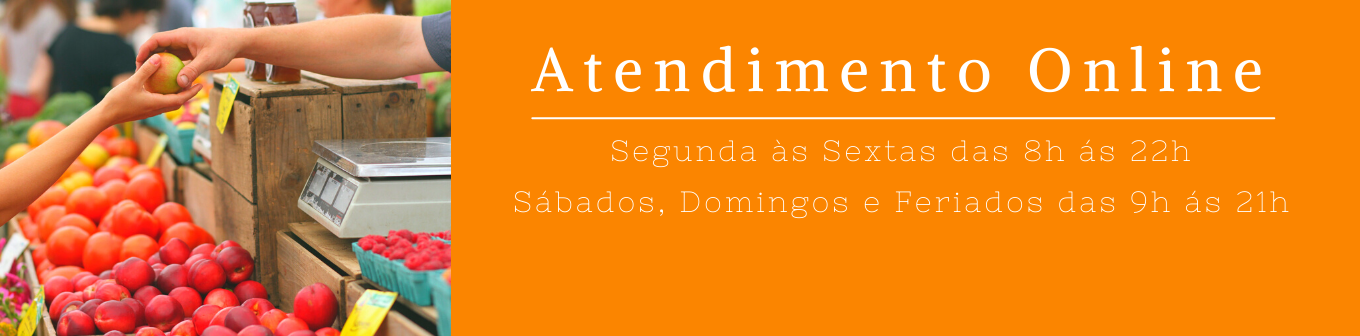
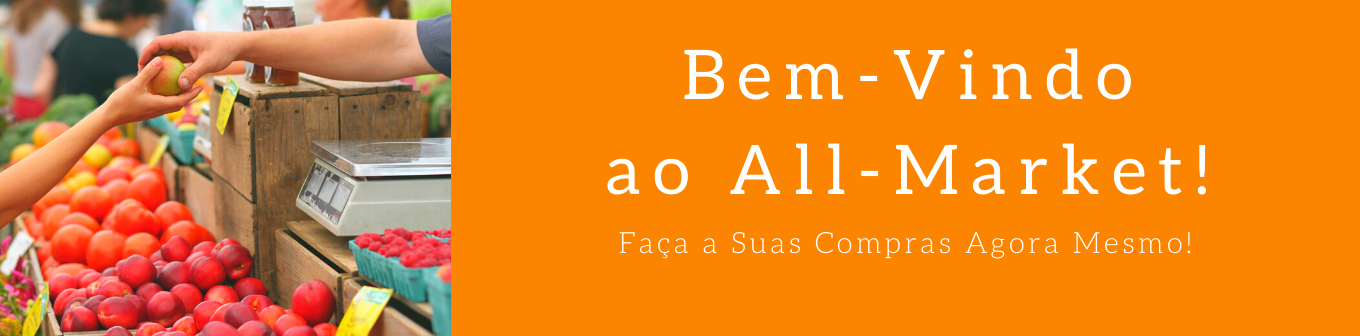
Bom dia

diff --git a/react/tcc/src/pages/inicial/index.js b/react/tcc/src/pages/inicial/index.js
@@ -45,8 +45,8 @@ export default function Index() {
         loading.current.complete();
     }
 
-    let lista1 = produtos.filter(p => p.id_categoria === 6 || p.id_categoria === 4 || p.id_categoria === 2);
-    let lista2 = produtos.filter(p => p.id_categoria === 5 || p.id_categoria === 3 || p.id_categoria === 1);
+    let lista1 = produtos.filter(p => p.id_categoria === 18 || p.id_categoria === 16 || p.id_categoria === 14);
+    let lista2 = produtos.filter(p => p.id_categoria === 17 || p.id_categoria === 15 || p.id_categoria === 13);
 
     return (
         <Container>
@@ -140,11 +140,6 @@ export default function Index() {
                             <div className="limpeza">Limpeza</div>
                             <div className="higiene">Higiene</div>
                         </div>   
-                    </div>
-                    <div className="atendimento">
-                        <div className="titulo-atendimento">Atendimento Online</div>
-                        <div className="horario-normal">Segundas às Sextas das 8h ás 22h</div>
-                        <div className="horario-feriado">Sábados, Domingos e Feriados das 9h ás 20h</div>
                     </div>
                     <div className="redes">
                         <div className="titulo-redes">Nos Siga nas Redes Sociais!</div>

diff --git a/react/tcc/src/pages/usuario/carrinho/index.js b/react/tcc/src/pages/usuario/carrinho/index.js
@@ -126,7 +126,7 @@ export default function Carrinho() {
                 </div>
                 <div class="box-direita">
                     <div class="box-endereco">
-                        <div class="titulo-endereco"> Confira o endereco para entrega </div>
+                        <div class="titulo-endereco"> Confira o Endereço para Entrega: </div>
                         <div class="nome-rua"> <span>Logradouro:</span> {endereco.nm_rua}, {endereco.ds_numero} </div>
 
                         <div class="nome-bairro"> <span>Bairro:</span> Jardim das Flores </div>
@@ -144,8 +144,8 @@ export default function Carrinho() {
                             <button /*onClick={formaPagamento('Pix')}*/ > Pix </button>
                         </div>
                     </div>
-                    <div class="box-total"> O total da sua compra foi de: <b> R$ {valorTotal} </b> </div>
-                    <div class="botao-finalizar"> <button onClick={finalizarCompra}> Finalizar compra </button> </div>
+                    <div class="box-total"> O Total da Sua Compra Foi de: <b> R$ {valorTotal} </b> </div>
+                    <div class="botao-finalizar"> <button onClick={finalizarCompra}> Finalizar Compra </button> </div>
 
                 </div>
             </div>

diff --git a/react/tcc/src/pages/inicial/categoria-carnes/index.js b/react/tcc/src/pages/inicial/categoria-carnes/index.js
@@ -44,8 +44,8 @@ export default function Index() {
         loading.current.complete();
     }
 
-    let lista1 = produtos.filter(p => p.id_categoria === 4);
-    let lista2 = produtos.filter(p => p.id_categoria === 3);
+    let lista1 = produtos.filter(p => p.id_categoria === 12);
+    let lista2 = produtos.filter(p => p.id_categoria === 11);
 
     return (
         <Container>
@@ -98,11 +98,6 @@ export default function Index() {
                             <div className="limpeza">Limpeza</div>
                             <div className="higiene">Higiene</div>
                         </div>   
-                    </div>
-                    <div className="atendimento">
-                        <div className="titulo-atendimento">Atendimento Online</div>
-                        <div className="horario-normal">Segundas às Sextas das 8h ás 22h</div>
-                        <div className="horario-feriado">Sábados, Domingos e Feriados das 9h ás 20h</div>
                     </div>
                     <div className="redes">
                         <div className="titulo-redes">Nos Siga nas Redes Sociais!</div>

diff --git a/react/tcc/src/pages/inicial/categoria-congelados/index.js b/react/tcc/src/pages/inicial/categoria-congelados/index.js
@@ -44,8 +44,8 @@ export default function Index() {
         loading.current.complete();
     }
 
-    let lista1 = produtos.filter(p => p.id_categoria === 4);
-    let lista2 = produtos.filter(p => p.id_categoria === 3);
+    let lista1 = produtos.filter(p => p.id_categoria === 10);
+    let lista2 = produtos.filter(p => p.id_categoria === 9);
 
     return (
         <Container>
@@ -98,11 +98,6 @@ export default function Index() {
                             <div className="limpeza">Limpeza</div>
                             <div className="higiene">Higiene</div>
                         </div>   
-                    </div>
-                    <div className="atendimento">
-                        <div className="titulo-atendimento">Atendimento Online</div>
-                        <div className="horario-normal">Segundas às Sextas das 8h ás 22h</div>
-                        <div className="horario-feriado">Sábados, Domingos e Feriados das 9h ás 20h</div>
                     </div>
                     <div className="redes">
                         <div className="titulo-redes">Nos Siga nas Redes Sociais!</div>

diff --git a/react/tcc/src/pages/inicial/categoria-higiene/index.js b/react/tcc/src/pages/inicial/categoria-higiene/index.js
@@ -44,8 +44,8 @@ export default function Index() {
         loading.current.complete();
     }
 
-    let lista1 = produtos.filter(p => p.id_categoria === 4);
-    let lista2 = produtos.filter(p => p.id_categoria === 3);
+    let lista1 = produtos.filter(p => p.id_categoria === 8);
+    let lista2 = produtos.filter(p => p.id_categoria === 7);
 
     return (
         <Container>
@@ -98,11 +98,6 @@ export default function Index() {
                             <div className="limpeza">Limpeza</div>
                             <div className="higiene">Higiene</div>
                         </div>   
-                    </div>
-                    <div className="atendimento">
-                        <div className="titulo-atendimento">Atendimento Online</div>
-                        <div className="horario-normal">Segundas às Sextas das 8h ás 22h</div>
-                        <div className="horario-feriado">Sábados, Domingos e Feriados das 9h ás 20h</div>
                     </div>
                     <div className="redes">
                         <div className="titulo-redes">Nos Siga nas Redes Sociais!</div>

diff --git a/react/tcc/src/pages/inicial/categoria-hortifruti/index.js b/react/tcc/src/pages/inicial/categoria-hortifruti/index.js
@@ -44,8 +44,8 @@ export default function Index() {
         loading.current.complete();
     }
 
-    let lista1 = produtos.filter(p => p.id_categoria === 4);
-    let lista2 = produtos.filter(p => p.id_categoria === 3);
+    let lista1 = produtos.filter(p => p.id_categoria === 6);
+    let lista2 = produtos.filter(p => p.id_categoria === 5);
 
     return (
         <Container>
@@ -98,11 +98,6 @@ export default function Index() {
                             <div className="limpeza">Limpeza</div>
                             <div className="higiene">Higiene</div>
                         </div>   
-                    </div>
-                    <div className="atendimento">
-                        <div className="titulo-atendimento">Atendimento Online</div>
-                        <div className="horario-normal">Segundas às Sextas das 8h ás 22h</div>
-                        <div className="horario-feriado">Sábados, Domingos e Feriados das 9h ás 20h</div>
                     </div>
                     <div className="redes">
                         <div className="titulo-redes">Nos Siga nas Redes Sociais!</div>

diff --git a/react/tcc/src/pages/inicial/categoria-limpeza/index.js b/react/tcc/src/pages/inicial/categoria-limpeza/index.js
@@ -44,8 +44,8 @@ export default function Index() {
         loading.current.complete();
     }
 
-    let lista1 = produtos.filter(p => p.id_categoria === 4);
-    let lista2 = produtos.filter(p => p.id_categoria === 3);
+    let lista1 = produtos.filter(p => p.id_categoria === 2);
+    let lista2 = produtos.filter(p => p.id_categoria === 1);
 
     return (
         <Container>
@@ -98,11 +98,6 @@ export default function Index() {
                             <div className="limpeza">Limpeza</div>
                             <div className="higiene">Higiene</div>
                         </div>   
-                    </div>
-                    <div className="atendimento">
-                        <div className="titulo-atendimento">Atendimento Online</div>
-                        <div className="horario-normal">Segundas às Sextas das 8h ás 22h</div>
-                        <div className="horario-feriado">Sábados, Domingos e Feriados das 9h ás 20h</div>
                     </div>
                     <div className="redes">
                         <div className="titulo-redes">Nos Siga nas Redes Sociais!</div>

diff --git a/react/tcc/src/pages/inicial/categoria-laticinios/index.js b/react/tcc/src/pages/inicial/categoria-laticinios/index.js
@@ -99,11 +99,6 @@ export default function Index() {
                             <div className="higiene">Higiene</div>
                         </div>   
                     </div>
-                    <div className="atendimento">
-                        <div className="titulo-atendimento">Atendimento Online</div>
-                        <div className="horario-normal">Segundas às Sextas das 8h ás 22h</div>
-                        <div className="horario-feriado">Sábados, Domingos e Feriados das 9h ás 20h</div>
-                    </div>
                     <div className="redes">
                         <div className="titulo-redes">Nos Siga nas Redes Sociais!</div>
                         <div className="redes-sociais">
